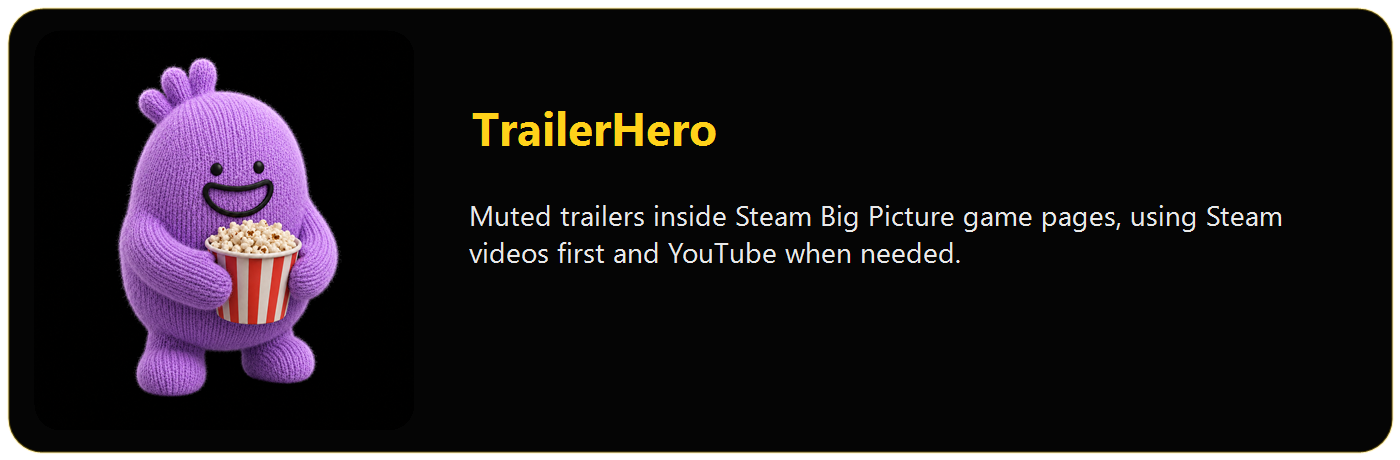
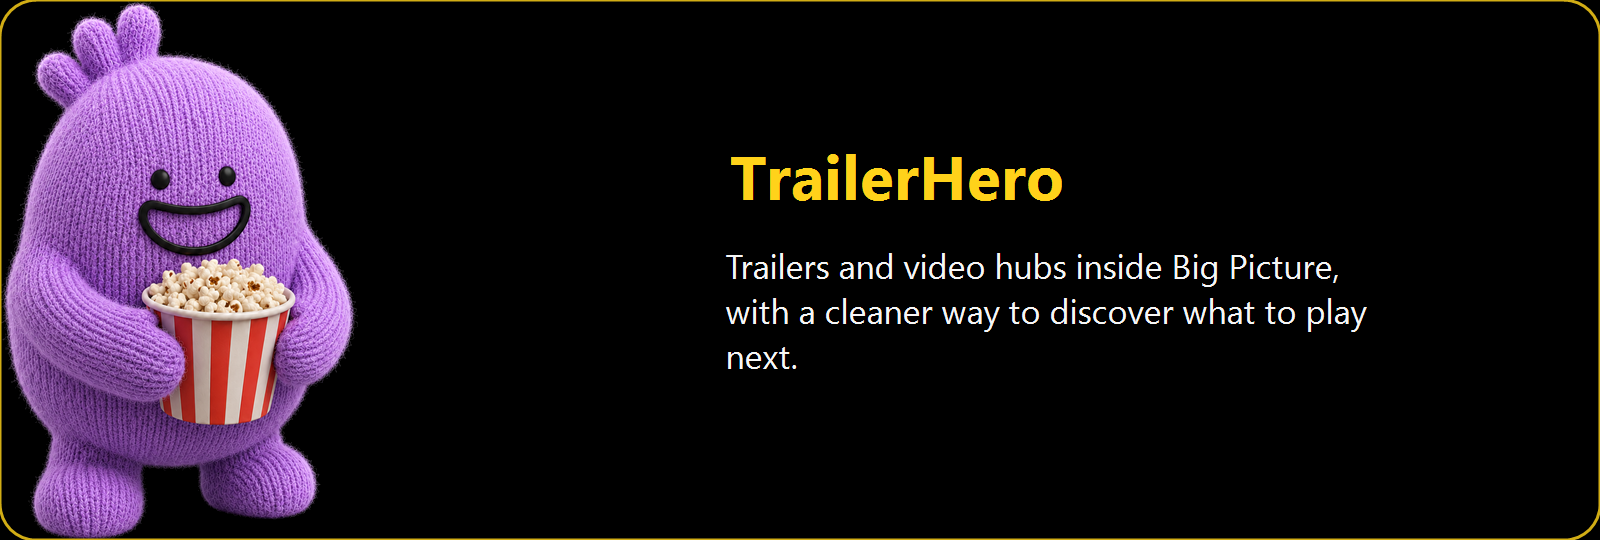
Readme update

diff --git a/README.md b/README.md
@@ -1,38 +1,21 @@
 <div align="center">
 
-<img src="docs/images/logo.png" width="260" alt="Playhub" />
-
-<h3>Your Windows gaming PC, with the soul of a console.</h3>
-
-<p>
-  <b>Playhub 1.1.8</b> turns a Windows PC into a living-room Steam console:
-  DeckyLoader, Playhub plugins, Gaming Mode, Big Picture styling and clean
-  Steam shortcuts for Xbox, Game Pass, Epic, GOG and standalone PC games.
-</p>
-
-<p>Native Windows app. Dark by design. Controller-first. 12 languages.</p>
+<img src="docs/images/readme-logo-card.png" width="100%" alt="Playhub - Your Windows gaming PC, with the soul of a console" />
 
 <a href="https://github.com/LoZazaMastro/Playhub/releases/latest">
-  <img src="https://img.shields.io/badge/Download%20Playhub-141416?style=for-the-badge" height="44" alt="Download Playhub" />
+  <img src="https://img.shields.io/badge/Download%20Playhub-FFD21A?style=for-the-badge&logo=github&logoColor=141416&labelColor=141416&color=FFD21A" height="54" alt="Download Playhub" />
+</a>
+&nbsp;&nbsp;
+
+<a href="https://ko-fi.com/LoZazaMastro">
+  <img src="https://img.shields.io/badge/Support%20Playhub-FF5E5B?style=for-the-badge&logo=kofi&logoColor=white" height="54" alt="Support Playhub on Ko-fi" />
 </a>
 
 <br/>
-
-<a href="https://ko-fi.com/LoZazaMastro">
-  <img src="https://cdn.simpleicons.org/kofi/FF5E5B" height="22" alt="Ko-fi" />
-</a>
-
-<br/><br/>
 
 <img src="docs/images/mascotte-couch.png" width="100%" alt="Playhub mascots on a couch" />
 
 </div>
-
-<br/>
-
-## What Playhub Does
-
-<img src="docs/images/readme-card-welcome.png" width="100%" alt="Welcome card" />
 
 <br/>
 
@@ -60,6 +43,58 @@
 
 <br/>
 
+<img src="docs/images/readme-plugin-family.png" width="100%" alt="Playhub Plugin Family" />
+
+<br/>
+
+<a href="https://github.com/LoZazaMastro/Playhub-Metadata">
+  <img src="docs/images/readme-plugin-metadata.png" width="100%" alt="Playhub Metadata card" />
+</a>
+
+<br/>
+
+<a href="https://github.com/LoZazaMastro/ThemeDeck-Windows">
+  <img src="docs/images/readme-plugin-themedeck.png" width="100%" alt="ThemeDeck card" />
+</a>
+
+<br/>
+
+<a href="https://github.com/LoZazaMastro/Launch-Curtain">
+  <img src="docs/images/readme-plugin-launch-curtain.png" width="100%" alt="Launch Curtain card" />
+</a>
+
+<br/>
+
+<a href="https://github.com/LoZazaMastro/TrailerHero">
+  <img src="docs/images/readme-plugin-trailerhero.png" width="100%" alt="TrailerHero card" />
+</a>
+
+<br/>
+
+<a href="https://github.com/LoZazaMastro/Now-Playing">
+  <img src="docs/images/readme-plugin-now-playing.png" width="100%" alt="Now Playing card" />
+</a>
+
+<br/>
+
+<a href="https://github.com/LoZazaMastro/Quick-Settings">
+  <img src="docs/images/readme-plugin-quick-settings.png" width="100%" alt="Quick Settings card" />
+</a>
+
+<br/>
+
+<a href="https://github.com/LoZazaMastro/Weather">
+  <img src="docs/images/readme-plugin-weather.png" width="100%" alt="Weather card" />
+</a>
+
+<br/>
+
+<a href="https://github.com/LoZazaMastro/Playhub-Surround">
+  <img src="docs/images/readme-plugin-surround.png" width="100%" alt="Playhub Surround card" />
+</a>
+
+<br/>
+
 ## Built For The Living Room
 
 - Big Picture first: install the Playhub CSS Loader theme and keep your Steam artwork backed up.
@@ -68,47 +103,6 @@
 - Repair tools: one button checks Gaming Mode, its Decky companion plugin, UWPHook, the agent and configuration.
 - Diagnostics: Playhub can create a report on the desktop when something needs investigating.
 - Updates: Playhub checks GitHub for new app and plugin versions and notifies you in-app.
-
-<br/>
-
-## Playhub Plugin Family
-
-<div align="center">
-  <img src="docs/images/mascotte-group.png" width="100%" alt="Playhub plugin mascots" />
-</div>
-
-<br/>
-
-<img src="docs/images/readme-plugin-metadata.png" width="100%" alt="Playhub Metadata card" />
-
-<br/>
-
-<img src="docs/images/readme-plugin-themedeck.png" width="100%" alt="ThemeDeck card" />
-
-<br/>
-
-<img src="docs/images/readme-plugin-launch-curtain.png" width="100%" alt="Launch Curtain card" />
-
-<br/>
-
-<img src="docs/images/readme-plugin-trailerhero.png" width="100%" alt="TrailerHero card" />
-
-<br/>
-
-<img src="docs/images/readme-plugin-now-playing.png" width="100%" alt="Now Playing card" />
-
-<br/>
-
-<img src="docs/images/readme-plugin-quick-settings.png" width="100%" alt="Quick Settings card" />
-
-<br/>
-
-### Also In The Store
-
-- Weather: current weather, daily forecasts and hourly forecasts in the Quick Access Menu.
-- Playhub Surround: speaker layout tests for stereo, 5.1 and 7.1 living-room setups.
-- Gaming Mode companion: a Decky quick menu entry to switch between Gaming Mode and Desktop Mode.
-- Steam Controller Access: support tooling for Steam Controller workflows around Xbox and Game Pass shortcuts.
 
 <br/>
 
@@ -123,18 +117,9 @@ Playhub installs for your Windows user. Windows 11 x64 is recommended. Windows
 
 <br/>
 
-## Built With
+## Open Source
 
-- .NET 8
-- WinUI 3
-- Windows App SDK
-- Fluent 2
-- A custom WPF installer
-
-Open-source components include UWPHook, VDFParser and SharpSteam. Steam
-Controller Access third-party notices document SISR by Alia5, VIIPER by Alia5
-and Peter Repukat, and USBIP-Win2 by vadimgrn.
-
+Playhub uses open-source components including UWPHook, VDFParser and SharpSteam.
 Full license details are in
 [Source/Playhub/THIRD-PARTY-NOTICES.txt](Source/Playhub/THIRD-PARTY-NOTICES.txt).
 
@@ -148,8 +133,8 @@ Made by <b>Andrea Sgarro</b> - <b>LoZazaMastro</b>
 
 <br/><br/>
 
-Steam, Steam Controller and the other product names shown here are trademarks of
-their respective owners. Playhub is independent and is not affiliated with,
-sponsored by, or endorsed by Valve or any other trademark holder.
+Steam and the other product names shown here are trademarks of their respective
+owners. Playhub is independent and is not affiliated with, sponsored by, or
+endorsed by Valve or any other trademark holder.
 
 </div>
